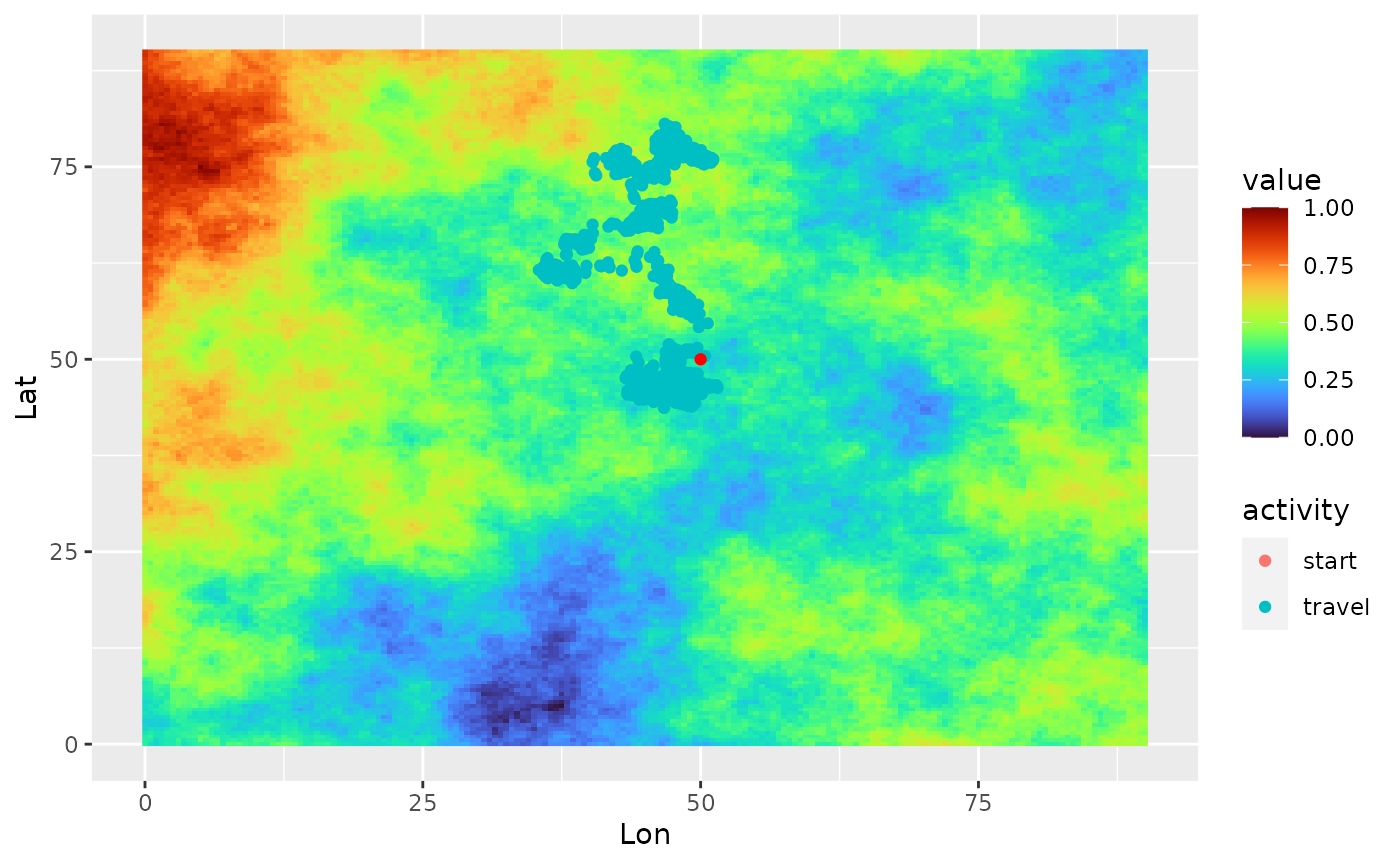
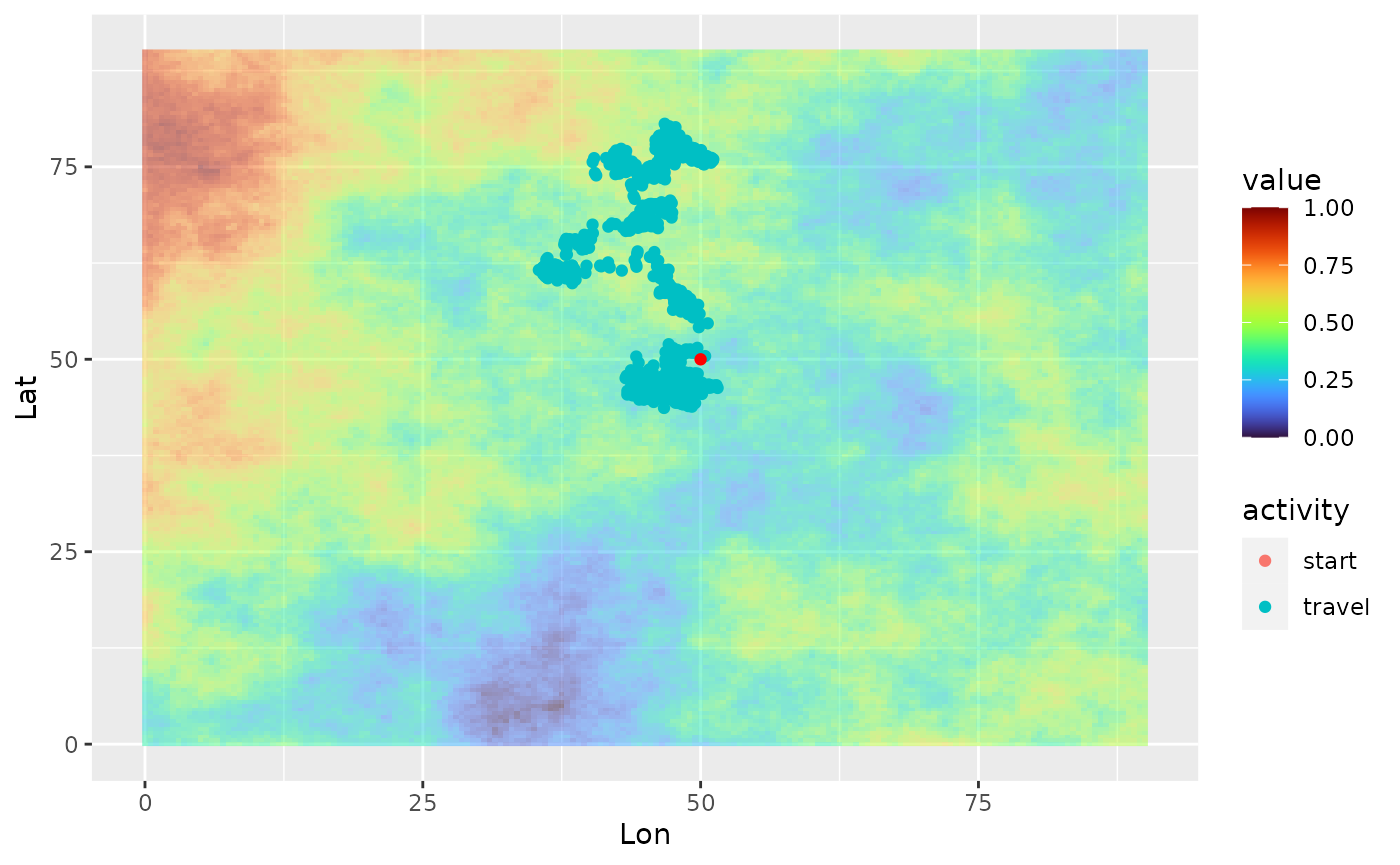
Deploying to gh-pages from @ CLambert1/simtools@558200043f152fbb1dc2fef69b689848898d38db 🚀

diff --git a/reference/simulate_trajectory_FR.html b/reference/simulate_trajectory_FR.html
@@ -1,5 +1,5 @@
 <!DOCTYPE html>
-<!-- Generated by pkgdown: do not edit by hand --><html lang="en"><head><meta http-equiv="Content-Type" content="text/html; charset=UTF-8"><meta charset="utf-8"><meta http-equiv="X-UA-Compatible" content="IE=edge"><meta name="viewport" content="width=device-width, initial-scale=1, shrink-to-fit=no"><meta name="description" content="Simulate the trajectory of a free ranging individual, over a given time period. The function works similarly as simulate_trajectory_CPF but the individual is not restrained around its colony and does not perform homing bout."><title>Simulate individual trajectory — simulate_trajectory_FR • simtools</title><!-- favicons --><link rel="icon" type="image/png" sizes="16x16" href="../favicon-16x16.png"><link rel="icon" type="image/png" sizes="32x32" href="../favicon-32x32.png"><link rel="apple-touch-icon" type="image/png" sizes="180x180" href="../apple-touch-icon.png"><link rel="apple-touch-icon" type="image/png" sizes="120x120" href="../apple-touch-icon-120x120.png"><link rel="apple-touch-icon" type="image/png" sizes="76x76" href="../apple-touch-icon-76x76.png"><link rel="apple-touch-icon" type="image/png" sizes="60x60" href="../apple-touch-icon-60x60.png"><script src="../deps/jquery-3.6.0/jquery-3.6.0.min.js"></script><meta name="viewport" content="width=device-width, initial-scale=1, shrink-to-fit=no"><link href="../deps/bootstrap-5.3.1/bootstrap.min.css" rel="stylesheet"><script src="../deps/bootstrap-5.3.1/bootstrap.bundle.min.js"></script><!-- Font Awesome icons --><link rel="stylesheet" href="https://cdnjs.cloudflare.com/ajax/libs/font-awesome/5.12.1/css/all.min.css" integrity="sha256-mmgLkCYLUQbXn0B1SRqzHar6dCnv9oZFPEC1g1cwlkk=" crossorigin="anonymous"><link rel="stylesheet" href="https://cdnjs.cloudflare.com/ajax/libs/font-awesome/5.12.1/css/v4-shims.min.css" integrity="sha256-wZjR52fzng1pJHwx4aV2AO3yyTOXrcDW7jBpJtTwVxw=" crossorigin="anonymous"><!-- bootstrap-toc --><script src="https://cdn.jsdelivr.net/gh/afeld/bootstrap-toc@v1.0.1/dist/bootstrap-toc.min.js" integrity="sha256-4veVQbu7//Lk5TSmc7YV48MxtMy98e26cf5MrgZYnwo=" crossorigin="anonymous"></script><!-- headroom.js --><script src="https://cdnjs.cloudflare.com/ajax/libs/headroom/0.11.0/headroom.min.js" integrity="sha256-AsUX4SJE1+yuDu5+mAVzJbuYNPHj/WroHuZ8Ir/CkE0=" crossorigin="anonymous"></script><script src="https://cdnjs.cloudflare.com/ajax/libs/headroom/0.11.0/jQuery.headroom.min.js" integrity="sha256-ZX/yNShbjqsohH1k95liqY9Gd8uOiE1S4vZc+9KQ1K4=" crossorigin="anonymous"></script><!-- clipboard.js --><script src="https://cdnjs.cloudflare.com/ajax/libs/clipboard.js/2.0.6/clipboard.min.js" integrity="sha256-inc5kl9MA1hkeYUt+EC3BhlIgyp/2jDIyBLS6k3UxPI=" crossorigin="anonymous"></script><!-- search --><script src="https://cdnjs.cloudflare.com/ajax/libs/fuse.js/6.4.6/fuse.js" integrity="sha512-zv6Ywkjyktsohkbp9bb45V6tEMoWhzFzXis+LrMehmJZZSys19Yxf1dopHx7WzIKxr5tK2dVcYmaCk2uqdjF4A==" crossorigin="anonymous"></script><script src="https://cdnjs.cloudflare.com/ajax/libs/autocomplete.js/0.38.0/autocomplete.jquery.min.js" integrity="sha512-GU9ayf+66Xx2TmpxqJpliWbT5PiGYxpaG8rfnBEk1LL8l1KGkRShhngwdXK1UgqhAzWpZHSiYPc09/NwDQIGyg==" crossorigin="anonymous"></script><script src="https://cdnjs.cloudflare.com/ajax/libs/mark.js/8.11.1/mark.min.js" integrity="sha512-5CYOlHXGh6QpOFA/TeTylKLWfB3ftPsde7AnmhuitiTX4K5SqCLBeKro6sPS8ilsz1Q4NRx3v8Ko2IBiszzdww==" crossorigin="anonymous"></script><!-- pkgdown --><script src="../pkgdown.js"></script><meta property="og:title" content="Simulate individual trajectory — simulate_trajectory_FR"><meta property="og:description" content="Simulate the trajectory of a free ranging individual, over a given time period. The function works similarly as simulate_trajectory_CPF but the individual is not restrained around its colony and does not perform homing bout."><meta property="og:image" content="/logo.png"><!-- mathjax --><script src="https://cdnjs.cloudflare.com/ajax/libs/mathjax/2.7.5/MathJax.js" integrity="sha256-nvJJv9wWKEm88qvoQl9ekL2J+k/RWIsaSScxxlsrv8k=" crossorigin="anonymous"></script><script src="https://cdnjs.cloudflare.com/ajax/libs/mathjax/2.7.5/config/TeX-AMS-MML_HTMLorMML.js" integrity="sha256-84DKXVJXs0/F8OTMzX4UR909+jtl4G7SPypPavF+GfA=" crossorigin="anonymous"></script><!--[if lt IE 9]>
+<!-- Generated by pkgdown: do not edit by hand --><html lang="en"><head><meta http-equiv="Content-Type" content="text/html; charset=UTF-8"><meta charset="utf-8"><meta http-equiv="X-UA-Compatible" content="IE=edge"><meta name="viewport" content="width=device-width, initial-scale=1, shrink-to-fit=no"><meta name="description" content="Simulate the trajectory of a free ranging individual, over a given time period. The function works similarly as simulate_trajectory_CPF but the individual is not restrained around a colony and does not perform homing bout. Here, potential_position_func() considers the initial position as the colony, so that the dist_col field in the output corresponds to the distance to this starting point."><title>Simulate individual trajectory — simulate_trajectory_FR • simtools</title><!-- favicons --><link rel="icon" type="image/png" sizes="16x16" href="../favicon-16x16.png"><link rel="icon" type="image/png" sizes="32x32" href="../favicon-32x32.png"><link rel="apple-touch-icon" type="image/png" sizes="180x180" href="../apple-touch-icon.png"><link rel="apple-touch-icon" type="image/png" sizes="120x120" href="../apple-touch-icon-120x120.png"><link rel="apple-touch-icon" type="image/png" sizes="76x76" href="../apple-touch-icon-76x76.png"><link rel="apple-touch-icon" type="image/png" sizes="60x60" href="../apple-touch-icon-60x60.png"><script src="../deps/jquery-3.6.0/jquery-3.6.0.min.js"></script><meta name="viewport" content="width=device-width, initial-scale=1, shrink-to-fit=no"><link href="../deps/bootstrap-5.3.1/bootstrap.min.css" rel="stylesheet"><script src="../deps/bootstrap-5.3.1/bootstrap.bundle.min.js"></script><!-- Font Awesome icons --><link rel="stylesheet" href="https://cdnjs.cloudflare.com/ajax/libs/font-awesome/5.12.1/css/all.min.css" integrity="sha256-mmgLkCYLUQbXn0B1SRqzHar6dCnv9oZFPEC1g1cwlkk=" crossorigin="anonymous"><link rel="stylesheet" href="https://cdnjs.cloudflare.com/ajax/libs/font-awesome/5.12.1/css/v4-shims.min.css" integrity="sha256-wZjR52fzng1pJHwx4aV2AO3yyTOXrcDW7jBpJtTwVxw=" crossorigin="anonymous"><!-- bootstrap-toc --><script src="https://cdn.jsdelivr.net/gh/afeld/bootstrap-toc@v1.0.1/dist/bootstrap-toc.min.js" integrity="sha256-4veVQbu7//Lk5TSmc7YV48MxtMy98e26cf5MrgZYnwo=" crossorigin="anonymous"></script><!-- headroom.js --><script src="https://cdnjs.cloudflare.com/ajax/libs/headroom/0.11.0/headroom.min.js" integrity="sha256-AsUX4SJE1+yuDu5+mAVzJbuYNPHj/WroHuZ8Ir/CkE0=" crossorigin="anonymous"></script><script src="https://cdnjs.cloudflare.com/ajax/libs/headroom/0.11.0/jQuery.headroom.min.js" integrity="sha256-ZX/yNShbjqsohH1k95liqY9Gd8uOiE1S4vZc+9KQ1K4=" crossorigin="anonymous"></script><!-- clipboard.js --><script src="https://cdnjs.cloudflare.com/ajax/libs/clipboard.js/2.0.6/clipboard.min.js" integrity="sha256-inc5kl9MA1hkeYUt+EC3BhlIgyp/2jDIyBLS6k3UxPI=" crossorigin="anonymous"></script><!-- search --><script src="https://cdnjs.cloudflare.com/ajax/libs/fuse.js/6.4.6/fuse.js" integrity="sha512-zv6Ywkjyktsohkbp9bb45V6tEMoWhzFzXis+LrMehmJZZSys19Yxf1dopHx7WzIKxr5tK2dVcYmaCk2uqdjF4A==" crossorigin="anonymous"></script><script src="https://cdnjs.cloudflare.com/ajax/libs/autocomplete.js/0.38.0/autocomplete.jquery.min.js" integrity="sha512-GU9ayf+66Xx2TmpxqJpliWbT5PiGYxpaG8rfnBEk1LL8l1KGkRShhngwdXK1UgqhAzWpZHSiYPc09/NwDQIGyg==" crossorigin="anonymous"></script><script src="https://cdnjs.cloudflare.com/ajax/libs/mark.js/8.11.1/mark.min.js" integrity="sha512-5CYOlHXGh6QpOFA/TeTylKLWfB3ftPsde7AnmhuitiTX4K5SqCLBeKro6sPS8ilsz1Q4NRx3v8Ko2IBiszzdww==" crossorigin="anonymous"></script><!-- pkgdown --><script src="../pkgdown.js"></script><meta property="og:title" content="Simulate individual trajectory — simulate_trajectory_FR"><meta property="og:description" content="Simulate the trajectory of a free ranging individual, over a given time period. The function works similarly as simulate_trajectory_CPF but the individual is not restrained around a colony and does not perform homing bout. Here, potential_position_func() considers the initial position as the colony, so that the dist_col field in the output corresponds to the distance to this starting point."><meta property="og:image" content="/logo.png"><!-- mathjax --><script src="https://cdnjs.cloudflare.com/ajax/libs/mathjax/2.7.5/MathJax.js" integrity="sha256-nvJJv9wWKEm88qvoQl9ekL2J+k/RWIsaSScxxlsrv8k=" crossorigin="anonymous"></script><script src="https://cdnjs.cloudflare.com/ajax/libs/mathjax/2.7.5/config/TeX-AMS-MML_HTMLorMML.js" integrity="sha256-84DKXVJXs0/F8OTMzX4UR909+jtl4G7SPypPavF+GfA=" crossorigin="anonymous"></script><!--[if lt IE 9]>
 <script src="https://oss.maxcdn.com/html5shiv/3.7.3/html5shiv.min.js"></script>
 <script src="https://oss.maxcdn.com/respond/1.4.2/respond.min.js"></script>
 <![endif]--></head><body>
@@ -55,7 +55,7 @@
     </div>
 
     <div class="ref-description section level2">
-    <p>Simulate the trajectory of a free ranging individual, over a given time period. The function works similarly as <code><a href="simulate_trajectory_CPF.html">simulate_trajectory_CPF</a></code> but the individual is not restrained around its colony and does not perform homing bout.</p>
+    <p>Simulate the trajectory of a free ranging individual, over a given time period. The function works similarly as <code><a href="simulate_trajectory_CPF.html">simulate_trajectory_CPF</a></code> but the individual is not restrained around a colony and does not perform homing bout. Here, <code><a href="potential_position_func.html">potential_position_func()</a></code> considers the initial position as the colony, so that the dist_col field in the output corresponds to the distance to this starting point.</p>
     </div>
 
     <div class="section level2">
@@ -188,7 +188,7 @@
 <span class="r-in"><span></span></span>
 <span class="r-in"><span><span class="co"># view the trajectory</span></span></span>
 <span class="r-in"><span><span class="fu"><a href="https://ggplot2.tidyverse.org/reference/ggplot.html" class="external-link">ggplot</a></span><span class="op">(</span><span class="va">single_traj</span><span class="op">)</span> <span class="op">+</span></span></span>
-<span class="r-in"><span>  <span class="fu"><a href="https://dieghernan.github.io/tidyterra/reference/geom_spatraster.html" class="external-link">geom_spatraster</a></span><span class="op">(</span>data <span class="op">=</span> <span class="va">cdt</span><span class="op">$</span><span class="va">rasters</span><span class="op">)</span> <span class="op">+</span> </span></span>
+<span class="r-in"><span>  <span class="fu"><a href="https://dieghernan.github.io/tidyterra/reference/geom_spatraster.html" class="external-link">geom_spatraster</a></span><span class="op">(</span>data <span class="op">=</span> <span class="va">cdt</span><span class="op">$</span><span class="va">rasters</span>, alpha <span class="op">=</span> <span class="fl">0.5</span><span class="op">)</span> <span class="op">+</span> </span></span>
 <span class="r-in"><span>  <span class="fu"><a href="https://ggplot2.tidyverse.org/reference/geom_point.html" class="external-link">geom_point</a></span><span class="op">(</span><span class="fu"><a href="https://ggplot2.tidyverse.org/reference/aes.html" class="external-link">aes</a></span><span class="op">(</span>x <span class="op">=</span> <span class="va">Lon</span>, y <span class="op">=</span> <span class="va">Lat</span>, color <span class="op">=</span> <span class="va">activity</span><span class="op">)</span><span class="op">)</span> <span class="op">+</span></span></span>
 <span class="r-in"><span>  <span class="fu"><a href="https://ggplot2.tidyverse.org/reference/geom_point.html" class="external-link">geom_point</a></span><span class="op">(</span>data <span class="op">=</span> <span class="va">colony_location</span>, <span class="fu"><a href="https://ggplot2.tidyverse.org/reference/aes.html" class="external-link">aes</a></span><span class="op">(</span>x <span class="op">=</span> <span class="va">Lon</span>, y <span class="op">=</span> <span class="va">Lat</span><span class="op">)</span>, col <span class="op">=</span> <span class="st">"red"</span><span class="op">)</span> <span class="op">+</span></span></span>
 <span class="r-in"><span>  <span class="fu"><a href="https://sjmgarnier.github.io/viridis/reference/scale_viridis.html" class="external-link">scale_fill_viridis</a></span><span class="op">(</span>option <span class="op">=</span> <span class="st">"H"</span><span class="op">)</span> </span></span>

diff --git a/articles/simulate-individual-movements.html b/articles/simulate-individual-movements.html
@@ -190,7 +190,7 @@ colony.</p>
 <span><span class="co">#&gt; </span></span>
 <span><span class="co">#&gt;     date, intersect, setdiff, union</span></span>
 <span><span class="kw"><a href="https://rdrr.io/r/base/library.html" class="external-link">library</a></span><span class="op">(</span><span class="va"><a href="https://rspatial.org/" class="external-link">terra</a></span><span class="op">)</span></span>
-<span><span class="co">#&gt; terra 1.7.55</span></span>
+<span><span class="co">#&gt; terra 1.7.65</span></span>
 <span><span class="va">colony_location</span> <span class="op">&lt;-</span> <span class="fu"><a href="https://rdrr.io/r/base/data.frame.html" class="external-link">data.frame</a></span><span class="op">(</span>Lon <span class="op">=</span> <span class="fl">20</span>, Lat <span class="op">=</span> <span class="fl">20</span><span class="op">)</span></span>
 <span><span class="va">cdt</span> <span class="op">&lt;-</span> <span class="fu"><a href="../reference/generate_env_layer.html">generate_env_layer</a></span><span class="op">(</span>grid <span class="op">=</span> <span class="fu"><a href="../reference/create_grid.html">create_grid</a></span><span class="op">(</span><span class="op">)</span>, n <span class="op">=</span> <span class="fl">1</span>, seed <span class="op">=</span> <span class="fl">25</span><span class="op">)</span></span>
 <span><span class="co">#&gt; [using unconditional Gaussian simulation]</span></span>
@@ -214,7 +214,7 @@ colony.</p>
 <span></span>
 <span><span class="co"># view the trajectory</span></span>
 <span><span class="fu"><a href="https://ggplot2.tidyverse.org/reference/ggplot.html" class="external-link">ggplot</a></span><span class="op">(</span><span class="va">single_traj</span><span class="op">)</span> <span class="op">+</span></span>
-<span>  <span class="fu"><a href="https://dieghernan.github.io/tidyterra/reference/geom_spatraster.html" class="external-link">geom_spatraster</a></span><span class="op">(</span>data <span class="op">=</span> <span class="va">cdt</span><span class="op">$</span><span class="va">rasters</span><span class="op">)</span> <span class="op">+</span> </span>
+<span>  <span class="fu"><a href="https://dieghernan.github.io/tidyterra/reference/geom_spatraster.html" class="external-link">geom_spatraster</a></span><span class="op">(</span>data <span class="op">=</span> <span class="va">cdt</span><span class="op">$</span><span class="va">rasters</span>, alpha <span class="op">=</span> <span class="fl">0.5</span><span class="op">)</span> <span class="op">+</span> </span>
 <span>  <span class="fu"><a href="https://ggplot2.tidyverse.org/reference/geom_point.html" class="external-link">geom_point</a></span><span class="op">(</span><span class="fu"><a href="https://ggplot2.tidyverse.org/reference/aes.html" class="external-link">aes</a></span><span class="op">(</span>x <span class="op">=</span> <span class="va">Lon</span>, y <span class="op">=</span> <span class="va">Lat</span>, color <span class="op">=</span> <span class="va">activity</span><span class="op">)</span><span class="op">)</span> <span class="op">+</span></span>
 <span>  <span class="fu"><a href="https://ggplot2.tidyverse.org/reference/geom_point.html" class="external-link">geom_point</a></span><span class="op">(</span>data <span class="op">=</span> <span class="va">colony_location</span>, <span class="fu"><a href="https://ggplot2.tidyverse.org/reference/aes.html" class="external-link">aes</a></span><span class="op">(</span>x <span class="op">=</span> <span class="va">Lon</span>, y <span class="op">=</span> <span class="va">Lat</span><span class="op">)</span>, col <span class="op">=</span> <span class="st">"red"</span><span class="op">)</span> <span class="op">+</span></span>
 <span>  <span class="fu"><a href="https://sjmgarnier.github.io/viridis/reference/scale_viridis.html" class="external-link">scale_fill_viridis</a></span><span class="op">(</span>option <span class="op">=</span> <span class="st">"H"</span><span class="op">)</span> </span></code></pre></div>
@@ -266,7 +266,7 @@ homing bout.</p>
 <span></span>
 <span><span class="co"># view the trajectory</span></span>
 <span><span class="fu"><a href="https://ggplot2.tidyverse.org/reference/ggplot.html" class="external-link">ggplot</a></span><span class="op">(</span><span class="va">single_traj</span><span class="op">)</span> <span class="op">+</span></span>
-<span>  <span class="fu"><a href="https://dieghernan.github.io/tidyterra/reference/geom_spatraster.html" class="external-link">geom_spatraster</a></span><span class="op">(</span>data <span class="op">=</span> <span class="va">cdt</span><span class="op">$</span><span class="va">rasters</span><span class="op">)</span> <span class="op">+</span> </span>
+<span>  <span class="fu"><a href="https://dieghernan.github.io/tidyterra/reference/geom_spatraster.html" class="external-link">geom_spatraster</a></span><span class="op">(</span>data <span class="op">=</span> <span class="va">cdt</span><span class="op">$</span><span class="va">rasters</span>, alpha <span class="op">=</span> <span class="fl">0.5</span><span class="op">)</span> <span class="op">+</span> </span>
 <span>  <span class="fu"><a href="https://ggplot2.tidyverse.org/reference/geom_point.html" class="external-link">geom_point</a></span><span class="op">(</span><span class="fu"><a href="https://ggplot2.tidyverse.org/reference/aes.html" class="external-link">aes</a></span><span class="op">(</span>x <span class="op">=</span> <span class="va">Lon</span>, y <span class="op">=</span> <span class="va">Lat</span>, color <span class="op">=</span> <span class="va">activity</span><span class="op">)</span><span class="op">)</span> <span class="op">+</span></span>
 <span>  <span class="fu"><a href="https://ggplot2.tidyverse.org/reference/geom_point.html" class="external-link">geom_point</a></span><span class="op">(</span>data <span class="op">=</span> <span class="va">colony_location</span>, <span class="fu"><a href="https://ggplot2.tidyverse.org/reference/aes.html" class="external-link">aes</a></span><span class="op">(</span>x <span class="op">=</span> <span class="va">Lon</span>, y <span class="op">=</span> <span class="va">Lat</span><span class="op">)</span>, col <span class="op">=</span> <span class="st">"red"</span><span class="op">)</span> <span class="op">+</span></span>
 <span>  <span class="fu"><a href="https://sjmgarnier.github.io/viridis/reference/scale_viridis.html" class="external-link">scale_fill_viridis</a></span><span class="op">(</span>option <span class="op">=</span> <span class="st">"H"</span><span class="op">)</span> </span></code></pre></div>

diff --git a/articles/simulate-virtual-environment.html b/articles/simulate-virtual-environment.html
@@ -122,23 +122,12 @@ frame and raster formats (SpatRast).</p>
 <span><span class="co">#&gt;  $ y   : num  0 0 0 0 0 0 0 0 0 0 ...</span></span>
 <span><span class="co">#&gt;  $ sim1: num  4.7 5.35 4.82 7.42 6.74 ...</span></span>
 <span><span class="co">#&gt;  $ sim2: num  -0.381 -0.575 -0.766 -3.876 -4.276 ...</span></span>
-<span><span class="fu"><a href="https://rdrr.io/r/utils/str.html" class="external-link">str</a></span><span class="op">(</span><span class="fu"><a href="../reference/generate_env_layer.html">generate_env_layer</a></span><span class="op">(</span>norm <span class="op">=</span> <span class="cn">TRUE</span>, return_rasters <span class="op">=</span> <span class="cn">FALSE</span>, grid <span class="op">=</span> <span class="va">grid</span><span class="op">)</span><span class="op">)</span></span>
-<span><span class="co">#&gt; [using unconditional Gaussian simulation]</span></span>
-<span><span class="co">#&gt; 'data.frame':    32761 obs. of  4 variables:</span></span>
-<span><span class="co">#&gt;  $ x   : num  0 0.5 1 1.5 2 2.5 3 3.5 4 4.5 ...</span></span>
-<span><span class="co">#&gt;  $ y   : num  0 0 0 0 0 0 0 0 0 0 ...</span></span>
-<span><span class="co">#&gt;  $ sim1: num  0.213 0.234 0.217 0.301 0.279 ...</span></span>
-<span><span class="co">#&gt;  $ sim2: num  0.455 0.45 0.445 0.367 0.357 ...</span></span>
 <span></span>
 <span><span class="kw"><a href="https://rdrr.io/r/base/library.html" class="external-link">library</a></span><span class="op">(</span><span class="va"><a href="https://rspatial.org/" class="external-link">terra</a></span><span class="op">)</span></span>
-<span><span class="co">#&gt; terra 1.7.55</span></span>
+<span><span class="co">#&gt; terra 1.7.65</span></span>
 <span><span class="fu"><a href="https://rdrr.io/pkg/terra/man/plot.html" class="external-link">plot</a></span><span class="op">(</span><span class="fu"><a href="../reference/generate_env_layer.html">generate_env_layer</a></span><span class="op">(</span>norm <span class="op">=</span> <span class="cn">TRUE</span>, return_rasters <span class="op">=</span> <span class="cn">TRUE</span>, grid <span class="op">=</span> <span class="va">grid</span><span class="op">)</span><span class="op">$</span><span class="va">rasters</span><span class="op">)</span></span>
 <span><span class="co">#&gt; [using unconditional Gaussian simulation]</span></span></code></pre></div>
 <p><img src="simulate-virtual-environment_files/figure-html/example-generate_env_layer-1.png" width="700"></p>
-<div class="sourceCode" id="cb4"><pre class="downlit sourceCode r">
-<code class="sourceCode R"><span><span class="fu"><a href="https://rdrr.io/pkg/terra/man/plot.html" class="external-link">plot</a></span><span class="op">(</span><span class="fu"><a href="../reference/generate_env_layer.html">generate_env_layer</a></span><span class="op">(</span>norm <span class="op">=</span> <span class="cn">FALSE</span>, return_rasters <span class="op">=</span> <span class="cn">TRUE</span>, grid <span class="op">=</span> <span class="va">grid</span><span class="op">)</span><span class="op">$</span><span class="va">rasters</span><span class="op">)</span></span>
-<span><span class="co">#&gt; [using unconditional Gaussian simulation]</span></span></code></pre></div>
-<p><img src="simulate-virtual-environment_files/figure-html/example-generate_env_layer-2.png" width="700"></p>
 </div>
 <div class="section level2">
 <h2 id="build-the-suitability-layer">Build the suitability layer<a class="anchor" aria-label="anchor" href="#build-the-suitability-layer"></a>
@@ -150,7 +139,7 @@ function, where a given environmental layer is simply scaled by the beta
 parameter (env*beta) and several leveraged env layers are additively
 combined. For more elaborate procedures, see the <a href="https://borisleroy.com/files/virtualspecies-tutorial.html" class="external-link">virtualspecies
 package</a>.</p>
-<div class="sourceCode" id="cb5"><pre class="downlit sourceCode r">
+<div class="sourceCode" id="cb4"><pre class="downlit sourceCode r">
 <code class="sourceCode R"><span><span class="kw"><a href="https://rdrr.io/r/base/library.html" class="external-link">library</a></span><span class="op">(</span><span class="va"><a href="https://rspatial.org/" class="external-link">terra</a></span><span class="op">)</span></span>
 <span><span class="co"># simple example</span></span>
 <span><span class="va">grid</span> <span class="op">&lt;-</span> <span class="fu"><a href="../reference/create_grid.html">create_grid</a></span><span class="op">(</span><span class="op">)</span></span>
@@ -167,7 +156,7 @@ package</a>.</p>
 <span><span class="co">#&gt;  $ rasters  :S4 class 'SpatRaster' [package "terra"]</span></span>
 <span><span class="fu"><a href="https://rdrr.io/pkg/terra/man/plot.html" class="external-link">plot</a></span><span class="op">(</span><span class="va">rsce</span><span class="op">$</span><span class="va">rasters</span><span class="op">)</span></span></code></pre></div>
 <p><img src="simulate-virtual-environment_files/figure-html/example-generate_resource_layer-1.png" width="700"></p>
-<div class="sourceCode" id="cb6"><pre class="downlit sourceCode r">
+<div class="sourceCode" id="cb5"><pre class="downlit sourceCode r">
 <code class="sourceCode R"><span></span>
 <span><span class="co"># also works when coordinates are not names x,y</span></span>
 <span><span class="va">cdt2</span> <span class="op">&lt;-</span> <span class="fu"><a href="../reference/generate_env_layer.html">generate_env_layer</a></span><span class="op">(</span>grid <span class="op">=</span> <span class="va">grid</span>, n <span class="op">=</span> <span class="fl">3</span><span class="op">)</span><span class="op">$</span><span class="va">dataframe</span> <span class="op">|&gt;</span> <span class="fu">dplyr</span><span class="fu">::</span><span class="fu"><a href="https://dplyr.tidyverse.org/reference/rename.html" class="external-link">rename</a></span><span class="op">(</span>lon <span class="op">=</span> <span class="va">x</span>, lat <span class="op">=</span> <span class="va">y</span><span class="op">)</span></span>

diff --git a/reference/generate_env_layer.html b/reference/generate_env_layer.html
@@ -119,22 +119,12 @@
 <span class="r-out co"><span class="r-pr">#&gt;</span>  $ y   : num  0 0 0 0 0 0 0 0 0 0 ...</span>
 <span class="r-out co"><span class="r-pr">#&gt;</span>  $ sim1: num  4.7 5.35 4.82 7.42 6.74 ...</span>
 <span class="r-out co"><span class="r-pr">#&gt;</span>  $ sim2: num  -0.381 -0.575 -0.766 -3.876 -4.276 ...</span>
-<span class="r-in"><span><span class="fu"><a href="https://rdrr.io/r/utils/str.html" class="external-link">str</a></span><span class="op">(</span><span class="fu">generate_env_layer</span><span class="op">(</span>norm <span class="op">=</span> <span class="cn">TRUE</span>, return_rasters <span class="op">=</span> <span class="cn">FALSE</span>, grid <span class="op">=</span> <span class="va">grid</span><span class="op">)</span><span class="op">)</span></span></span>
-<span class="r-out co"><span class="r-pr">#&gt;</span> [using unconditional Gaussian simulation]</span>
-<span class="r-out co"><span class="r-pr">#&gt;</span> 'data.frame':	32761 obs. of  4 variables:</span>
-<span class="r-out co"><span class="r-pr">#&gt;</span>  $ x   : num  0 0.5 1 1.5 2 2.5 3 3.5 4 4.5 ...</span>
-<span class="r-out co"><span class="r-pr">#&gt;</span>  $ y   : num  0 0 0 0 0 0 0 0 0 0 ...</span>
-<span class="r-out co"><span class="r-pr">#&gt;</span>  $ sim1: num  0.213 0.234 0.217 0.301 0.279 ...</span>
-<span class="r-out co"><span class="r-pr">#&gt;</span>  $ sim2: num  0.455 0.45 0.445 0.367 0.357 ...</span>
 <span class="r-in"><span></span></span>
 <span class="r-in"><span><span class="kw"><a href="https://rdrr.io/r/base/library.html" class="external-link">library</a></span><span class="op">(</span><span class="va"><a href="https://rspatial.org/" class="external-link">terra</a></span><span class="op">)</span></span></span>
-<span class="r-msg co"><span class="r-pr">#&gt;</span> terra 1.7.55</span>
+<span class="r-msg co"><span class="r-pr">#&gt;</span> terra 1.7.65</span>
 <span class="r-in"><span><span class="fu"><a href="https://rdrr.io/pkg/terra/man/plot.html" class="external-link">plot</a></span><span class="op">(</span><span class="fu">generate_env_layer</span><span class="op">(</span>norm <span class="op">=</span> <span class="cn">TRUE</span>, return_rasters <span class="op">=</span> <span class="cn">TRUE</span>, grid <span class="op">=</span> <span class="va">grid</span><span class="op">)</span><span class="op">$</span><span class="va">rasters</span><span class="op">)</span></span></span>
 <span class="r-out co"><span class="r-pr">#&gt;</span> [using unconditional Gaussian simulation]</span>
 <span class="r-plt img"><img src="generate_env_layer-1.png" alt="" width="700" height="433"></span>
-<span class="r-in"><span><span class="fu"><a href="https://rdrr.io/pkg/terra/man/plot.html" class="external-link">plot</a></span><span class="op">(</span><span class="fu">generate_env_layer</span><span class="op">(</span>norm <span class="op">=</span> <span class="cn">FALSE</span>, return_rasters <span class="op">=</span> <span class="cn">TRUE</span>, grid <span class="op">=</span> <span class="va">grid</span><span class="op">)</span><span class="op">$</span><span class="va">rasters</span><span class="op">)</span></span></span>
-<span class="r-out co"><span class="r-pr">#&gt;</span> [using unconditional Gaussian simulation]</span>
-<span class="r-plt img"><img src="generate_env_layer-2.png" alt="" width="700" height="433"></span>
 </code></pre></div>
     </div>
   </main><aside class="col-md-3"><nav id="toc"><h2>On this page</h2>

diff --git a/reference/simulate_trajectory_CPF.html b/reference/simulate_trajectory_CPF.html
@@ -217,7 +217,7 @@ When individuals reaches the threshold distance to colony (max_dist), or the tri
 <span class="r-in"><span></span></span>
 <span class="r-in"><span><span class="co"># view the trajectory</span></span></span>
 <span class="r-in"><span><span class="fu"><a href="https://ggplot2.tidyverse.org/reference/ggplot.html" class="external-link">ggplot</a></span><span class="op">(</span><span class="va">single_traj</span><span class="op">)</span> <span class="op">+</span></span></span>
-<span class="r-in"><span>  <span class="fu"><a href="https://dieghernan.github.io/tidyterra/reference/geom_spatraster.html" class="external-link">geom_spatraster</a></span><span class="op">(</span>data <span class="op">=</span> <span class="va">cdt</span><span class="op">$</span><span class="va">rasters</span><span class="op">)</span> <span class="op">+</span> </span></span>
+<span class="r-in"><span>  <span class="fu"><a href="https://dieghernan.github.io/tidyterra/reference/geom_spatraster.html" class="external-link">geom_spatraster</a></span><span class="op">(</span>data <span class="op">=</span> <span class="va">cdt</span><span class="op">$</span><span class="va">rasters</span>, alpha <span class="op">=</span> <span class="fl">0.5</span><span class="op">)</span> <span class="op">+</span> </span></span>
 <span class="r-in"><span>  <span class="fu"><a href="https://ggplot2.tidyverse.org/reference/geom_point.html" class="external-link">geom_point</a></span><span class="op">(</span><span class="fu"><a href="https://ggplot2.tidyverse.org/reference/aes.html" class="external-link">aes</a></span><span class="op">(</span>x <span class="op">=</span> <span class="va">Lon</span>, y <span class="op">=</span> <span class="va">Lat</span>, color <span class="op">=</span> <span class="va">activity</span><span class="op">)</span><span class="op">)</span> <span class="op">+</span></span></span>
 <span class="r-in"><span>  <span class="fu"><a href="https://ggplot2.tidyverse.org/reference/geom_point.html" class="external-link">geom_point</a></span><span class="op">(</span>data <span class="op">=</span> <span class="va">colony_location</span>, <span class="fu"><a href="https://ggplot2.tidyverse.org/reference/aes.html" class="external-link">aes</a></span><span class="op">(</span>x <span class="op">=</span> <span class="va">Lon</span>, y <span class="op">=</span> <span class="va">Lat</span><span class="op">)</span>, col <span class="op">=</span> <span class="st">"red"</span><span class="op">)</span> <span class="op">+</span></span></span>
 <span class="r-in"><span>  <span class="fu"><a href="https://sjmgarnier.github.io/viridis/reference/scale_viridis.html" class="external-link">scale_fill_viridis</a></span><span class="op">(</span>option <span class="op">=</span> <span class="st">"H"</span><span class="op">)</span> </span></span>

diff --git a/authors.html b/authors.html
@@ -65,14 +65,14 @@
       <h2 id="citation">Citation</h2>
       <p></p>
 
-      <p>Lambert C (2023).
+      <p>Lambert C (2024).
 <em>simtools: Tools For Simulation Analyses</em>.
 R package version 0.1.0. 
 </p>
       <pre>@Manual{,
   title = {simtools: Tools For Simulation Analyses},
   author = {Charlotte Lambert},
-  year = {2023},
+  year = {2024},
   note = {R package version 0.1.0},
 }</pre>
     </div>
